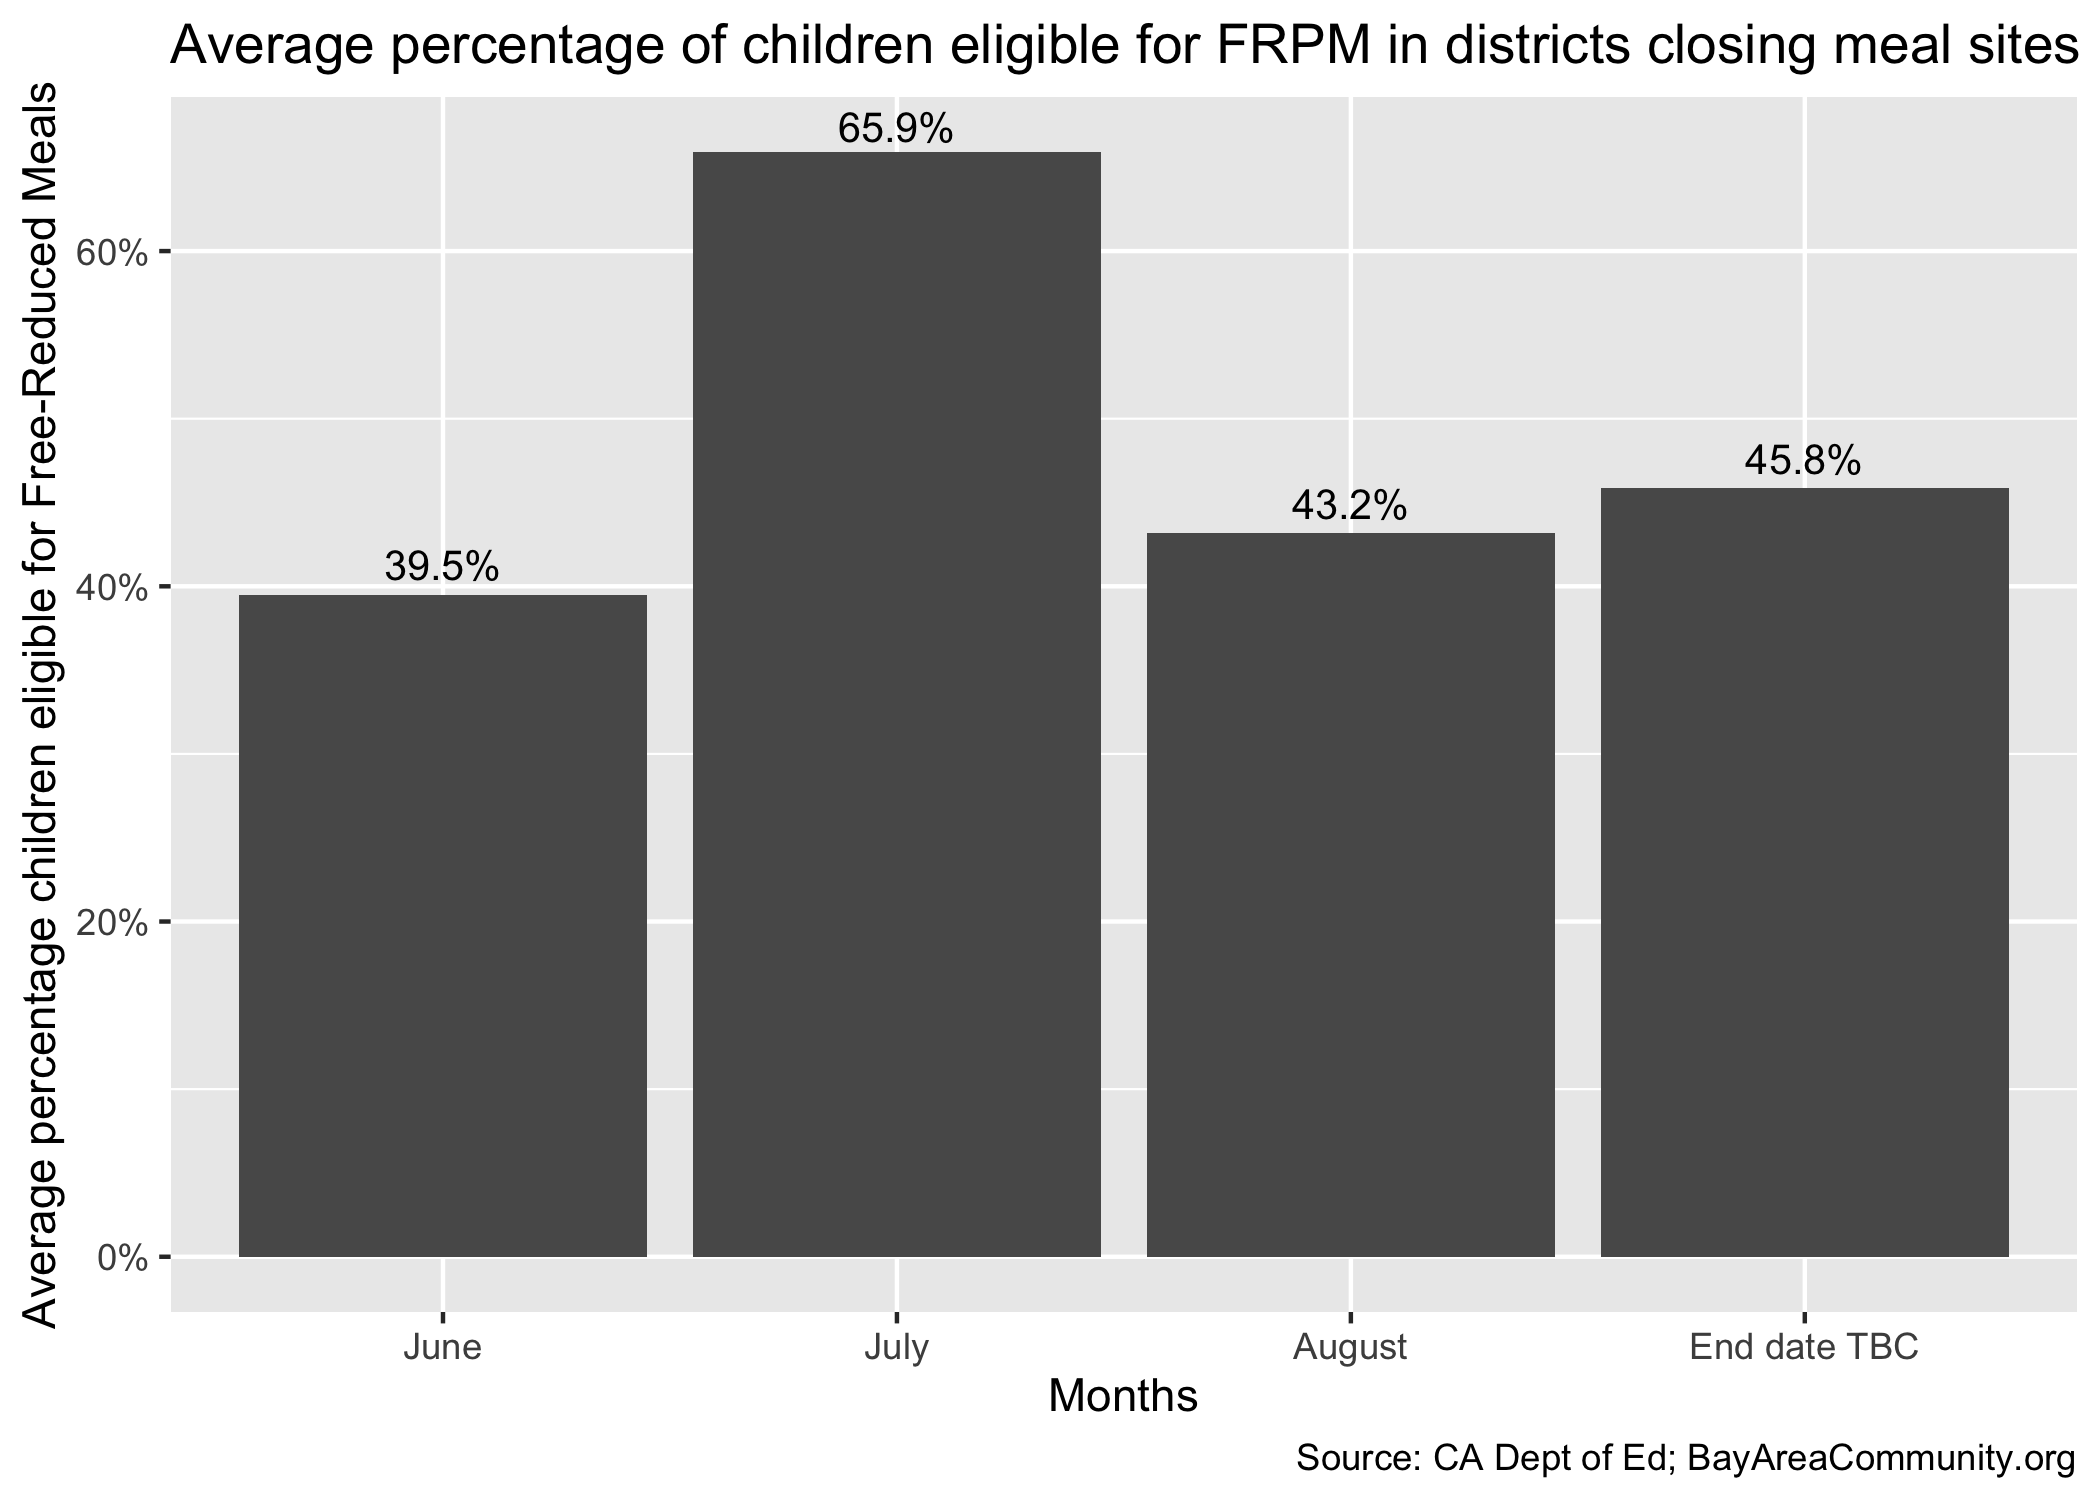
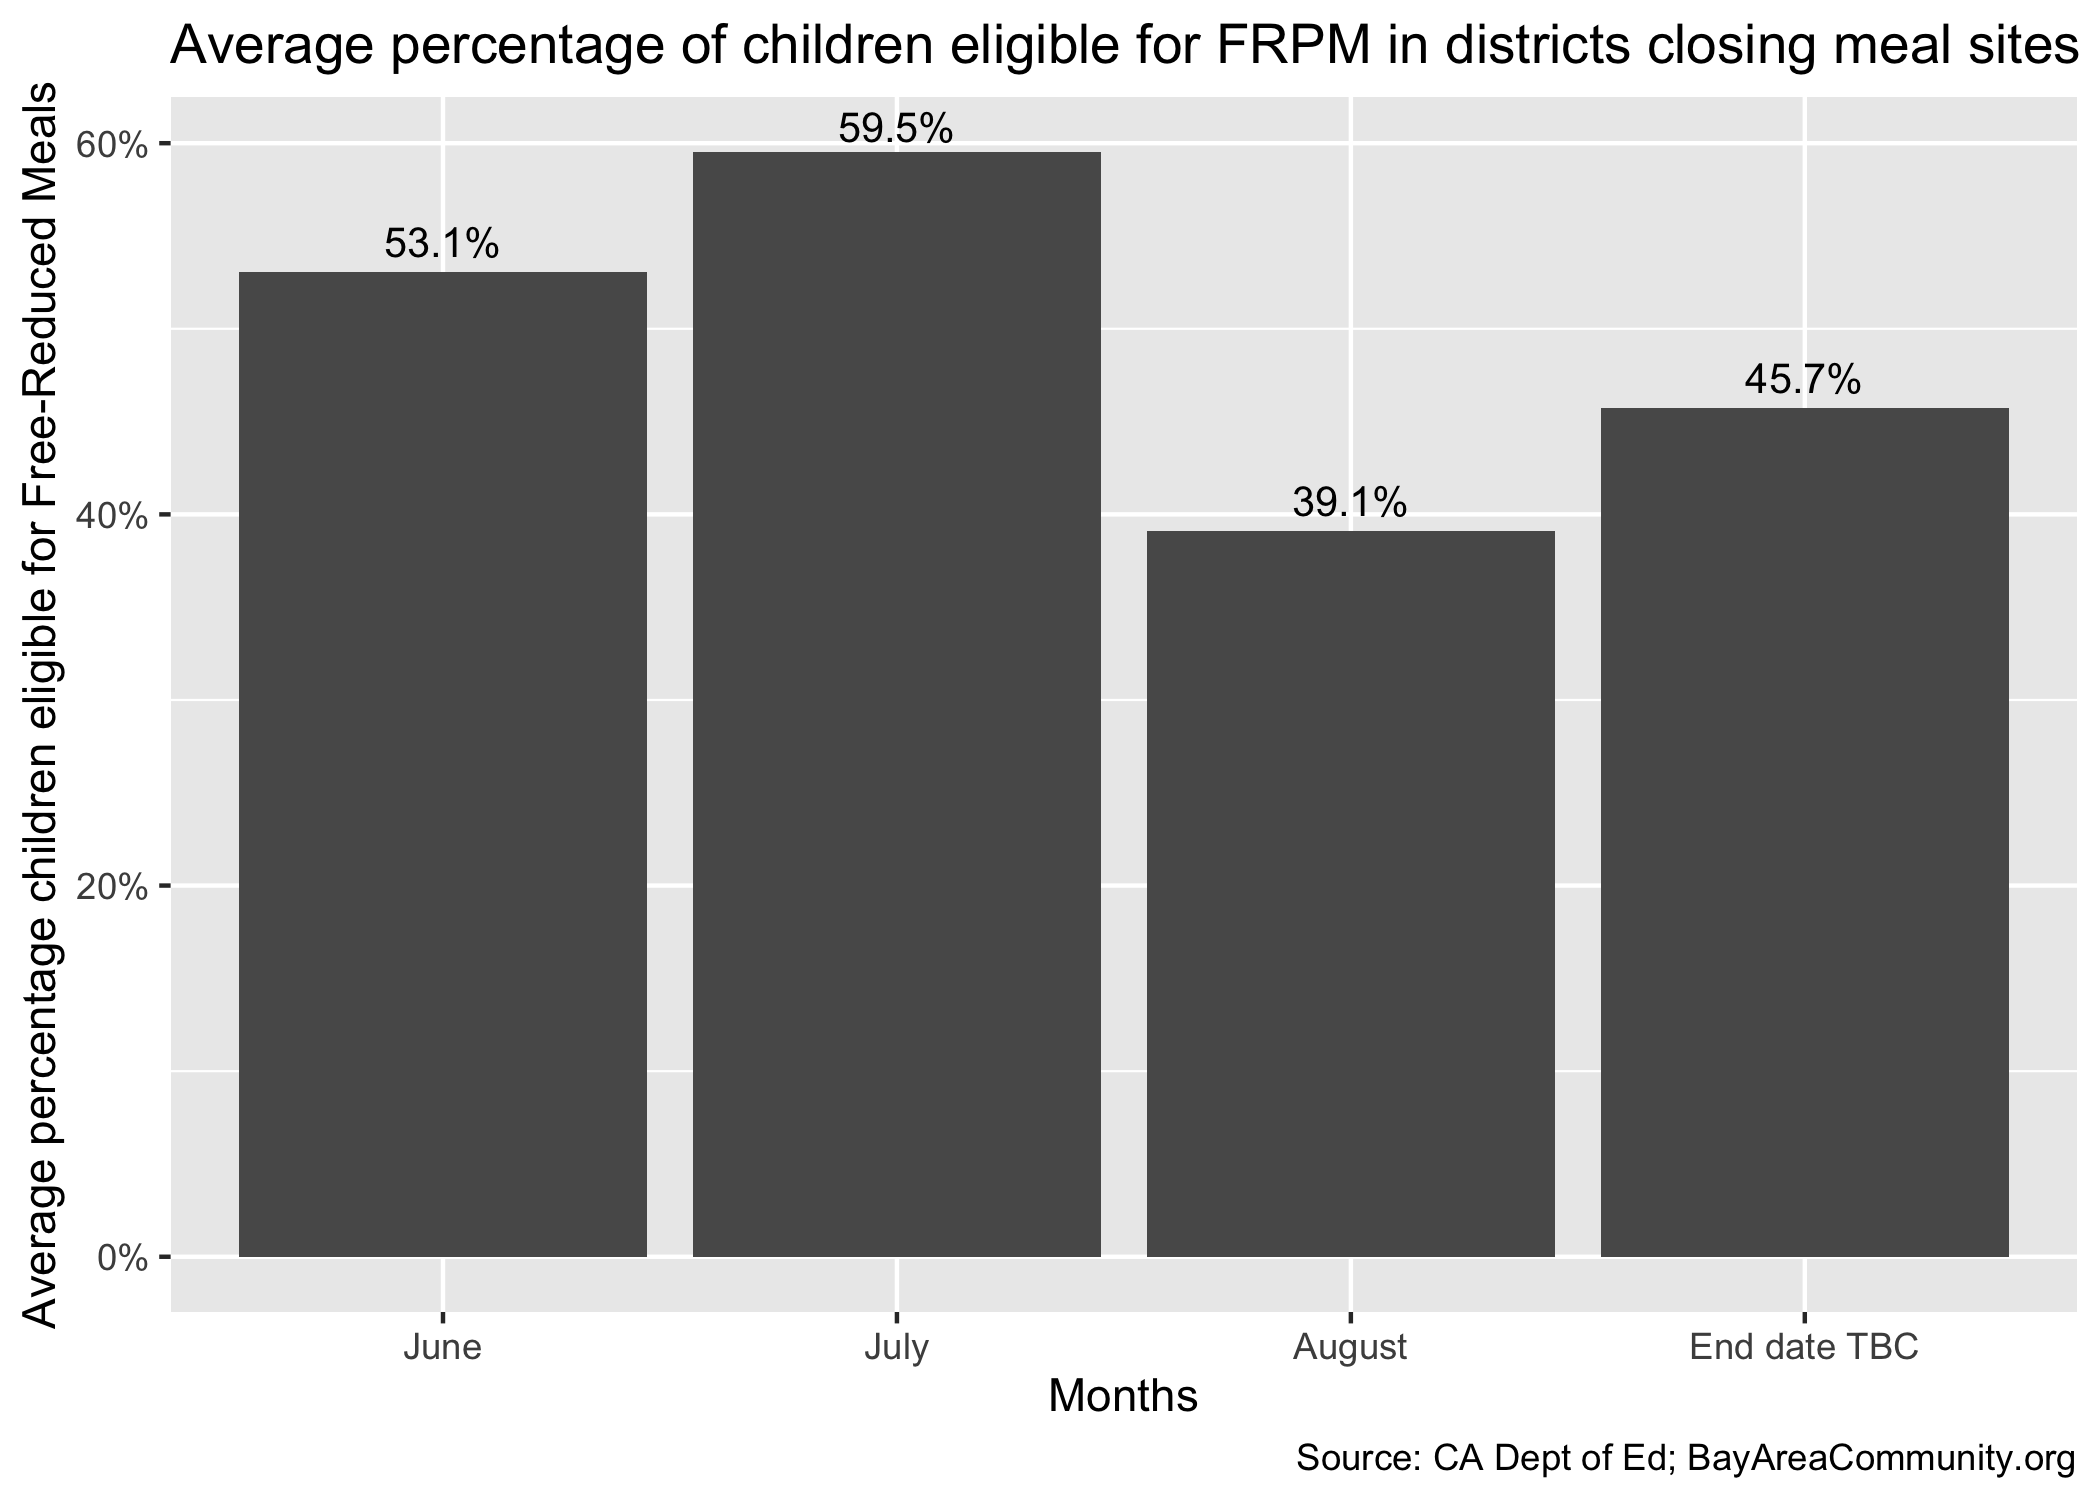
Updated analysis

diff --git a/Data_analysis/School_meal_Pandemic_EBT.md b/Data_analysis/School_meal_Pandemic_EBT.md
@@ -1,7 +1,7 @@
-School\_meals\_report
+FRPM analysis
 ================
 Chris LeBoa & Joyce Tagal
-2020-06-28
+2020-07-06
 
   - [Overview](#overview)
   - [Data sources and Assumptions](#data-sources-and-assumptions)
@@ -81,7 +81,7 @@ school_meals <-
 school_meals
 ```
 
-    ## # A tibble: 760 x 31
+    ## # A tibble: 762 x 31
     ##    site_name address city  zip   lat   lon   district_name status pebt_info_yn
     ##    <chr>     <chr>   <chr> <chr> <chr> <chr> <chr>         <chr>  <chr>       
     ##  1 Junction… 298 Ju… Live… 94551 37.6… -121… Livermore Va… Open   1           
@@ -94,7 +94,7 @@ school_meals
     ##  8 Berkeley… 2015 V… Berk… 94709 37.8… -122… Berkeley Uni… Closed 1           
     ##  9 Washingt… 2300 M… Berk… 94707 37.8… -122… Berkeley Uni… Open   1           
     ## 10 Rosa Par… 920 Al… Berk… 94710 37.8… -122… Berkeley Uni… Open   1           
-    ## # … with 750 more rows, and 22 more variables: ebt_homepage <chr>,
+    ## # … with 752 more rows, and 22 more variables: ebt_homepage <chr>,
     ## #   pebt_notes <chr>, contains_original_info <chr>, links_to_CDSS <chr>,
     ## #   links_to_cfa <chr>, open_hour <chr>, close_hour <chr>, notes <chr>,
     ## #   notes_es <chr>, days_of_week <chr>, county <chr>, phone <chr>, email <chr>,
@@ -131,7 +131,7 @@ school_meals_months <-
 school_meals_months 
 ```
 
-    ## # A tibble: 546 x 32
+    ## # A tibble: 492 x 32
     ##    site_name address city  zip   lat   lon   district_name status pebt_info_yn
     ##    <chr>     <chr>   <chr> <chr> <chr> <chr> <chr>         <chr>  <chr>       
     ##  1 Junction… 298 Ju… Live… 94551 37.6… -121… Livermore Va… Open   1           
@@ -144,7 +144,7 @@ school_meals_months
     ##  8 Rosa Par… 920 Al… Berk… 94710 37.8… -122… Berkeley Uni… Open   1           
     ##  9 Longfell… 1522 W… Berk… 95704 37.8… -122… Berkeley Uni… Open   1           
     ## 10 Berkeley… 1980 A… Berk… 94704 37.8… -122… Berkeley Uni… Open   1           
-    ## # … with 536 more rows, and 23 more variables: ebt_homepage <chr>,
+    ## # … with 482 more rows, and 23 more variables: ebt_homepage <chr>,
     ## #   pebt_notes <chr>, contains_original_info <chr>, links_to_CDSS <chr>,
     ## #   links_to_cfa <chr>, open_hour <chr>, close_hour <chr>, notes <chr>,
     ## #   notes_es <chr>, days_of_week <chr>, county <chr>, phone <chr>, email <chr>,
@@ -163,16 +163,16 @@ school_meals %>%
     ## # A tibble: 3 x 2
     ##   status      n
     ##   <chr>   <int>
-    ## 1 Closed    205
-    ## 2 Open      546
-    ## 3 Unclear     9
+    ## 1 Closed    264
+    ## 2 Open      492
+    ## 3 Unclear     6
 
 ``` r
 school_meals %>% 
   distinct(site_name)
 ```
 
-    ## # A tibble: 738 x 1
+    ## # A tibble: 740 x 1
     ##    site_name                      
     ##    <chr>                          
     ##  1 Junction Avenue K-8            
@@ -185,7 +185,7 @@ school_meals %>%
     ##  8 Berkeley Arts Magnet Elementary
     ##  9 Washington Elementary          
     ## 10 Rosa Parks Elementary          
-    ## # … with 728 more rows
+    ## # … with 730 more rows
 
 ``` r
 school_meals %>% 
@@ -220,7 +220,7 @@ school_meals %>%
     ##   pebt_info_yn     n
     ##   <chr>        <int>
     ## 1 0              409
-    ## 2 1              351
+    ## 2 1              353
 
 ``` r
 school_meals %>% 
@@ -274,7 +274,7 @@ school_meals %>%
   distinct(site_name)  #43 report 
 ```
 
-    ## # A tibble: 347 x 1
+    ## # A tibble: 349 x 1
     ##    site_name                           
     ##    <chr>                               
     ##  1 Junction Avenue K-8                 
@@ -287,7 +287,7 @@ school_meals %>%
     ##  8 Willard Middle School               
     ##  9 Martin Luther King Jr. Middle School
     ## 10 Castro Valley Elementary School     
-    ## # … with 337 more rows
+    ## # … with 339 more rows
 
 ``` r
 meals_pebt <- 
@@ -312,7 +312,7 @@ meals_pebt %>%
     ## # A tibble: 1 x 3
     ##   links_to_cfa links_to_CDSS contains_original_info
     ##          <dbl>         <dbl>                  <dbl>
-    ## 1           48            12                     35
+    ## 1           49            12                     35
 
 ### Schools ending summer distribution
 
@@ -326,7 +326,7 @@ school_meals_months %>%
     ## # A tibble: 1 x 1
     ##   total_sites
     ##         <int>
-    ## 1         546
+    ## 1         492
 
 ``` r
 school_meals_months %>% 
@@ -336,7 +336,7 @@ school_meals_months %>%
     ## # A tibble: 1 x 1
     ##   total_districts
     ##             <int>
-    ## 1             111
+    ## 1              96
 
 ``` r
 school_meals_months %>% 
@@ -345,13 +345,14 @@ school_meals_months %>%
   mutate(pct_schools = no_schools * 100 / sum(no_schools))
 ```
 
-    ## # A tibble: 4 x 3
-    ##   end_month    no_schools pct_schools
-    ##   <chr>             <int>       <dbl>
-    ## 1 August               95        17.4
-    ## 2 End date TBC        193        35.3
-    ## 3 July                146        26.7
-    ## 4 June                112        20.5
+    ## # A tibble: 5 x 3
+    ##   end_month     no_schools pct_schools
+    ##   <chr>              <int>       <dbl>
+    ## 1 August               103       20.9 
+    ## 2 End date TBC         178       36.2 
+    ## 3 end of summer          7        1.42
+    ## 4 July                 161       32.7 
+    ## 5 June                  43        8.74
 
 ``` r
 school_meals_months %>%
@@ -361,14 +362,15 @@ school_meals_months %>%
   rename("no_districts" = n)
 ```
 
-    ## # A tibble: 4 x 2
-    ## # Groups:   end_month [4]
-    ##   end_month    no_districts
-    ##   <chr>               <int>
-    ## 1 August                 24
-    ## 2 End date TBC           43
-    ## 3 July                   24
-    ## 4 June                   28
+    ## # A tibble: 5 x 2
+    ## # Groups:   end_month [5]
+    ##   end_month     no_districts
+    ##   <chr>                <int>
+    ## 1 August                  26
+    ## 2 End date TBC            40
+    ## 3 end of summer            3
+    ## 4 July                    27
+    ## 5 June                     5
 
 ``` r
 school_meals %>% 
@@ -471,7 +473,7 @@ school_meals_clean <-
 school_meals_clean
 ```
 
-    ## # A tibble: 504 x 32
+    ## # A tibble: 458 x 32
     ##    site_name address city  zip   lat   lon   district_name status pebt_info_yn
     ##    <chr>     <chr>   <chr> <chr> <chr> <chr> <chr>         <chr>  <chr>       
     ##  1 Junction… 298 Ju… Live… 94551 37.6… -121… Livermore Va… Open   1           
@@ -484,7 +486,7 @@ school_meals_clean
     ##  8 Rosa Par… 920 Al… Berk… 94710 37.8… -122… Berkeley Uni… Open   1           
     ##  9 Longfell… 1522 W… Berk… 95704 37.8… -122… Berkeley Uni… Open   1           
     ## 10 Berkeley… 1980 A… Berk… 94704 37.8… -122… Berkeley Uni… Open   1           
-    ## # … with 494 more rows, and 23 more variables: ebt_homepage <chr>,
+    ## # … with 448 more rows, and 23 more variables: ebt_homepage <chr>,
     ## #   pebt_notes <chr>, contains_original_info <chr>, links_to_CDSS <chr>,
     ## #   links_to_cfa <chr>, open_hour <chr>, close_hour <chr>, notes <chr>,
     ## #   notes_es <chr>, days_of_week <chr>, county <chr>, phone <chr>, email <chr>,
@@ -503,7 +505,7 @@ intersect(
 )
 ```
 
-    ## # A tibble: 103 x 1
+    ## # A tibble: 91 x 1
     ##    district_name                 
     ##    <chr>                         
     ##  1 Livermore Valley Joint Unified
@@ -516,7 +518,7 @@ intersect(
     ##  8 Hayward Unified               
     ##  9 New Haven Unified             
     ## 10 Newark Unified                
-    ## # … with 93 more rows
+    ## # … with 81 more rows
 
 ``` r
 districts <- school_meals_clean %>% distinct(district_name) %>% pull()
@@ -555,7 +557,7 @@ frpm_districts %>% summarise(total_enroll = sum(total_enroll))
     ## # A tibble: 1 x 1
     ##   total_enroll
     ##          <dbl>
-    ## 1      1117408
+    ## 1      1057474
 
 ## Averaging district population across school closures
 
@@ -594,7 +596,8 @@ school_meals_average <-
     percent_eligible_free_k12 = total_frac_free_eligible / total_frac_enroll,
     percent_eligible_frpm_k12 = total_frac_frpm_eligible / total_frac_enroll
   ) %>% 
-  mutate(end_month = factor(end_month, levels = level_key))
+  mutate(end_month = factor(end_month, levels = level_key)) %>% 
+  drop_na(end_month)
 
 
 school_meals_average
@@ -604,10 +607,10 @@ school_meals_average
     ## # Groups:   end_month [4]
     ##   end_month num_districts num_schools_clo… sum_schools total_frac_enro…
     ##   <fct>             <int>            <int>       <int>            <dbl>
-    ## 1 August               23               92         115          207856.
-    ## 2 End date…            39              180         182          404852.
-    ## 3 July                 22              127         136          238852.
-    ## 4 June                 26              105         124          265848.
+    ## 1 August               25              100         118          259893.
+    ## 2 End date…            37              166         166          394092 
+    ## 3 July                 25              142         161          260074.
+    ## 4 June                  5               43          59          104606.
     ## # … with 4 more variables: total_frac_free_eligible <dbl>,
     ## #   total_frac_frpm_eligible <dbl>, percent_eligible_free_k12 <dbl>,
     ## #   percent_eligible_frpm_k12 <dbl>
@@ -616,13 +619,7 @@ school_meals_average
 
 The analysis shows that the 22 school districts which are closing school
 sites in July have a higher-than-average percentage of children on FRPM
-(\~65.9%) compared to an average of 42.8343191%.
-
-Overall, the percentage of students on FRPM across districts closing in
-June and July is 53%, compared to 44% FRPM studentsfor districts closing
-in August and beyond. The school meal site closures directly impact
-districts with a higher proportion of students eligible for free and
-reduced lunch.
+(59.53%) compared to an average of 45.98%.
 
 ``` r
 school_meals_average %>% 
@@ -681,7 +678,8 @@ ggsave("total_districts.png", height = 4, width = 7)
 ```
 
 ``` r
-school_meals_average %>% 
+school_meals_twoperiod <- 
+  school_meals_average %>% 
   mutate(
     time_period = 
       if_else(
@@ -694,7 +692,13 @@ school_meals_average %>%
     total_frac_enroll = sum(total_frac_enroll),
     total_frac_frpm_eligible = sum(total_frac_frpm_eligible)
   ) %>% 
-  mutate(percent_eligible_frpm_k12 = total_frac_frpm_eligible / total_frac_enroll) %>% 
+  mutate(percent_eligible_frpm_k12 = total_frac_frpm_eligible / total_frac_enroll) 
+```
+
+    ## `summarise()` ungrouping output (override with `.groups` argument)
+
+``` r
+school_meals_twoperiod %>%
   ggplot(aes(x = time_period, y = percent_eligible_frpm_k12)) +
   geom_col() +
   ggrepel::geom_text_repel(
@@ -713,10 +717,14 @@ school_meals_average %>%
   )
 ```
 
-    ## `summarise()` ungrouping output (override with `.groups` argument)
-
 ![](School_meal_Pandemic_EBT_files/figure-gfm/unnamed-chunk-13-1.png)<!-- -->
 
 ``` r
 ggsave("timeperiods.png", height = 4, width = 7)
 ```
+
+Overall, the percentage of students on FRPM across districts closing in
+June and July is 57.7%, compared to 43.1% FRPM students for districts
+closing in August and beyond. The school meal site closures directly
+impact districts with a higher proportion of students eligible for free
+and reduced lunch.
